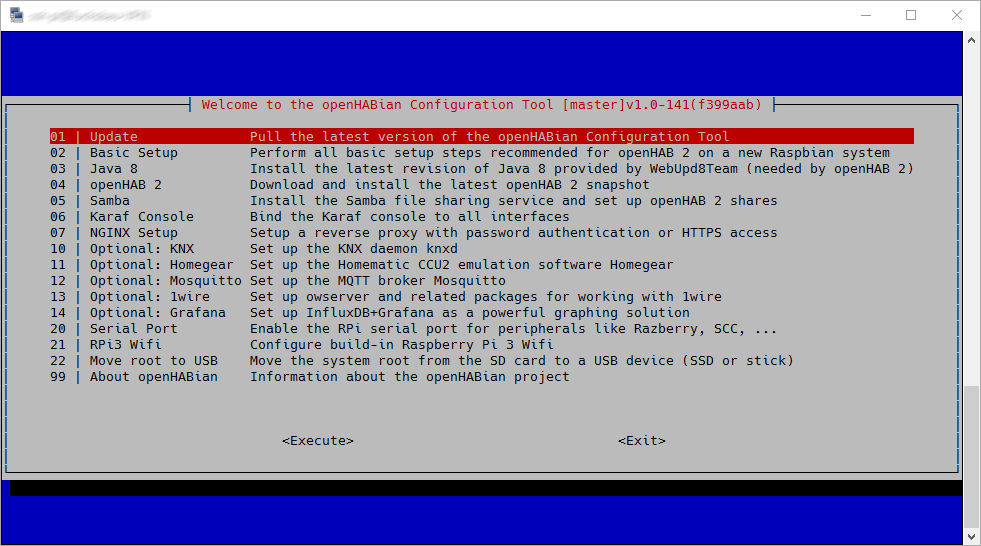
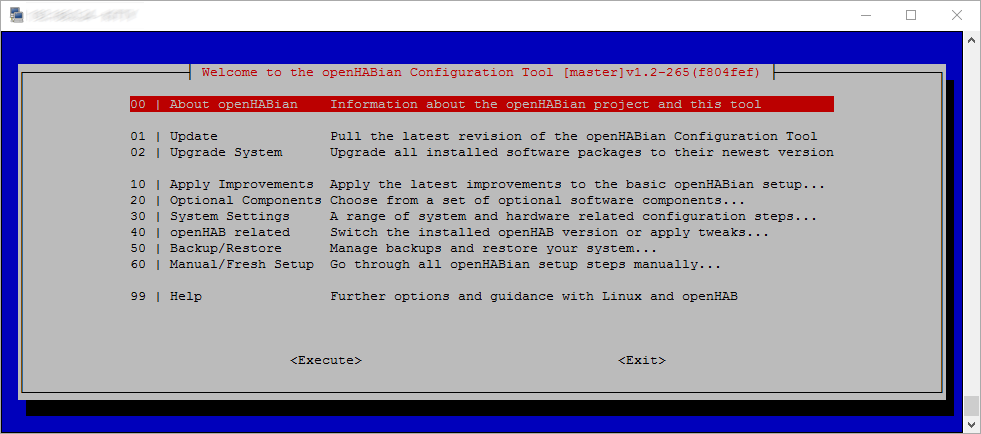
Update docs article and screenshots for next release

diff --git a/docs/openhabian.md b/docs/openhabian.md
@@ -5,6 +5,10 @@ title: openHABian
 
 {% include base.html %}
 
+<!-- Attention authors: If you want to improve or enhance this article, please go to: -->
+<!--   * https://github.com/openhab/openhabian/issues -->
+<!--   * https://github.com/openhab/openhabian/blob/master/docs/openhabian.md -->
+
 # openHABian - Hassle-free openHAB Setup
 
 The Raspberry Pi and other small single-board computers are quite famous platforms for openHAB.
@@ -13,10 +17,10 @@ However, setting up a fully working Linux system with all recommended packages a
 <p style="text-align: center; font-size: 1.2em; font-style: italic;"><q>A home automation enthusiast doesn't have to be a Linux enthusiast!</q></p>
 
 openHABian aims to provide a **self-configuring** Linux system setup specific to the needs of every openHAB user.
-The project provides two things:
+To that end, the project provides two things:
 
-* A set of scripts to set up openHAB on any Debian/Ubuntu based system
-* Complete **SD-card images pre-configured with openHAB** and many other openHAB- and Hardware-specific preparations, namely for the Raspberry Pi.
+* Complete **SD-card images pre-configured with openHAB** and many other openHAB- and Hardware-specific preparations for the Raspberry Pi and the Pine A64
+* The openHABian Configuration Tool to set up and configure openHAB and many related things on any Debian/Ubuntu based system
 
 #### Table of Content
 
@@ -27,36 +31,38 @@ The project provides two things:
 
 ## Features
 
-The following features are provided by openHABian:
+The following features are provided by the openHABian images out of the box:
 
+* Hassle-free setup without the need for a display or an [ethernet connection]()
 * openHAB 2 in the latest recommended version (2.0.0 stable)
-* Oracle Java 8 ([*build 1.8.0_101* or newer](https://launchpad.net/~webupd8team/+archive/ubuntu/java?field.series_filter=xenial))
+* Zulu Embedded OpenJDK Java 8 ([*version 8.20.0.42* or newer](http://zulu.org/zulu-community/zulurelnotes))
 * Useful Linux packages pre-installed, including `vim, mc, screen, htop, ...`
-* Samba file sharing with [ready to use shares](http://docs.openhab.org/installation/linux.html#mounting-locally)
+* Samba file sharing with [pre-configured to use shares](http://docs.openhab.org/installation/linux.html#mounting-locally)
 * Customized Bash shell experience
 * Customized vim settings, including [openHAB syntax highlighting](https://github.com/cyberkov/openhab-vim)
 * Customized nano settings, including [openHAB syntax highlighting](https://github.com/airix1/openhabnano)
 * Version control for `/etc` by the help of [etckeeper](http://etckeeper.branchable.com) (git)
 * Login information screen, powered by [FireMotD](https://github.com/willemdh/FireMotD)
-* openHABian configuration tool including an updater
+* openHABian Configuration Tool including updater functionality
 * [Raspberry Pi specific](rasppi.html): Extend to the whole SD card, 16MB GPU memory split
 
-openHABian provides the configuration tool [`openhabian-config`](#first-steps) with the following optional settings and components:
+openHABian provides the Configuration Tool [`openhabian-config`](#first-steps) with the following optional settings and components:
 
 ![openHABian-config menu](images/openHABian-config.png)
 
-<!-- * Switch over openHAB to the *testing* or *unstable* [build branches](https://bintray.com/openhab/apt-repo2/openhab2) -->
-
-* Install and Setup an [Nginx reverse proxy](security.html#nginx-reverse-proxy) with password authentication and/or HTTPS access (incl. [Let's Encrypt](https://letsencrypt.org) certificate)
-* Open the [Karaf remote console]({{base}}/administration/console.html) to all interfaces
+* Switch over to the *unstable* openHAB 2.1 [build branch](http://docs.openhab.org/installation/linux.html#changing-versions)
+* Switch to Oracle Java 8 ([*build 1.8.0_101* or newer](https://launchpad.net/~webupd8team/+archive/ubuntu/java?field.series_filter=xenial))
+* Install and Setup a [reverse proxy](security.html#nginx-reverse-proxy) with password authentication and/or HTTPS access (incl. [Let's Encrypt](https://letsencrypt.org) certificate) for self-controlled remote access
+* Set up a Wi-Fi connection
+* Bind the [Karaf remote console]({{base}}/administration/console.html) to all interfaces
 * [KNXd](http://michlstechblog.info/blog/raspberry-pi-eibknx-ip-gateway-and-router-with-knxd) - KNX daemon
-* [Homegear](https://www.homegear.eu/index.php/Main_Page) - Homemeatic control unit emulation
-* [Mosquitto](http://mosquitto.org) - Open Source MQTT v3.1/v3.1.1 Broker
+* [Homegear](https://www.homegear.eu/index.php/Main_Page) - Homematic control unit emulation
+* [Eclipse Mosquitto](http://mosquitto.org) - Open Source MQTT v3.1/v3.1.1 Broker
 * [OWServer](http://owfs.org/index.php?page=owserver_protocol) - 1wire control system
 * [InfluxDB+Grafana](https://community.openhab.org/t/influxdb-grafana-persistence-and-graphing/13761/1) - persistence and graphing
+* ... and many more
 * Raspberry Pi specific:
-  * Prepare the serial port for the use with Razberry, SCC, Enocean, ...
-  * Set up Wifi connection (RPi3 only)
+  * Prepare the serial port for the use with extension boards like Razberry, SCC, Enocean Pi, ...
   * Move the system partition to an external USB stick or drive
 
 ## Quick Start
@@ -65,23 +71,26 @@ Here you'll find supported and tested installation platforms and instructions.
 
 ### Raspberry Pi
 
-**Flash, plug, wait, enjoy:** The provided *image* of only 64MB contains a minimal boot system.
-This system will install *Raspbian* followed by openHAB and the mentioned settings and tools.
+**Flash, plug, wait, enjoy:**
+The provided *image* is based on the [Raspbian Lite](https://www.raspberrypi.org/downloads/raspbian) system.
+On first boot the system will set up openHAB and the mentioned settings and tools.
 All packages will be downloaded in their newest version and configured to work without further modifications.
+The whole process will take a few minutes, then openHAB and all other needed tools to get started will be ready to use without further configuration steps.
+openHABian is designed as a headless system, you will not need a display or a keyboard.
 
 Learn more about the Raspberry Pi as your platform for openHAB and about the requirements over in our [Raspberry Pi article](rasppi.html).
 
 **Setup:**
 
-* [Download the latest "openHABianPi" SD card image file](https://github.com/openhab/openhabian/releases)
-* Write the image to your SD card (e.g. with [Etcher](https://etcher.io))
-* Insert the SD card into the Raspberry Pi, connect Ethernet and power
-* Wait approximately **45 minutes** for openHABian to do its magic
+* [Download the latest "openHABianPi" SD card image file](https://github.com/openhab/openhabian/releases) (Note: the file is *xz* compressed)
+* Write the image to your SD card (e.g. with [Etcher](https://etcher.io), able to directly work with *xz* files)
+* Insert the SD card into the Raspberry Pi, connect Ethernet ([Wi-Fi supported](#wifi-setup)) and power
+* Wait approximately **15-30 minutes** for openHABian to do its magic
 * Enjoy! 🎉
 
 * The device will be available under its IP or via the local DNS name `openhabianpi`
 * [Connect to the openHAB 2 dashboard](http://docs.openhab.org/configuration/packages.html) (available after a few more minutes): [http://openhabianpi:8080](http://openhabianpi:8080)
-* [Connect to the Samba network shares](http://docs.openhab.org/installation/linux.html#mounting-locally) with `openhabian:openhabian`
+* [Connect to the Samba network shares](http://docs.openhab.org/installation/linux.html#mounting-locally) with username and password `openhabian`
 * If you encounter any setup problem, [please continue here](#faq-successful)
 
 You can stop reading now.
@@ -89,7 +98,7 @@ openHABian has installed and configured your openHAB system and you can start to
 If you want to get in touch with the system or want to install one of the previously mentioned optional features, you can come back here later.
 
 Ready for more?
-[Connect to your Raspberry Pi SSH console](https://www.raspberrypi.org/documentation/remote-access/ssh/windows.md) using the username and password `openhabian:openhabian`.
+[Connect to your Raspberry Pi SSH console](https://www.raspberrypi.org/documentation/remote-access/ssh/windows.md) using the username and password `openhabian`.
 You will see the following welcome screen:
 
 ![openHABian login screen](images/openHABian-SSH-MotD.png)
@@ -108,14 +117,14 @@ Learn more about the Pine A64 as your platform for openHAB and about the require
 **Setup:**
 
 * [Download the latest "openHABianPine64" SD card image file](https://github.com/openhab/openhabian/releases) (Note: the file is *xz* compressed)
-* Write the image file to your SD card (e.g. with [Etcher](https://etcher.io))
-* Insert the SD card into the Pine A64, connect Ethernet and power ([See here for more details](http://wiki.pine64.org/index.php/Main_Page#Step_by_Step_Instructions))
-* Wait approximately **15 minutes** for openHABian to do its magic
+* Write the image file to your SD card (e.g. with [Etcher](https://etcher.io), able to directly work with *xz* files)
+* Insert the SD card into the Pine A64, connect Ethernet ([Wi-Fi supported](#wifi-setup)) and power ([See here for more details](http://wiki.pine64.org/index.php/Main_Page#Step_by_Step_Instructions))
+* Wait approximately **15-30 minutes** for openHABian to do its magic
 * Enjoy! 🎉
 
 * The device will be available under its IP or via the local DNS name `openhabianpine64`
 * [Connect to the openHAB 2 dashboard](http://docs.openhab.org/configuration/packages.html) (available after a few more minutes): [http://openhabianpine64:8080](http://openhabianpine64:8080)
-* [Connect to the Samba network shares](http://docs.openhab.org/installation/linux.html#mounting-locally) with `openhabian:openhabian`
+* [Connect to the Samba network shares](http://docs.openhab.org/installation/linux.html#mounting-locally) with username and password `openhabian`
 * If you encounter any setup problem, [please continue here](#faq-successful)
 
 You can stop reading now.
@@ -123,7 +132,7 @@ openHABian has installed and configured your openHAB system and you can start to
 If you want to get in touch with the system or want to install one of the previously mentioned optional features, you can come back here later.
 
 Ready for more?
-Connect to your Pine A64 SSH console using the username and password `openhabian:openhabian`.
+Connect to your Pine A64 [SSH console](https://www.raspberrypi.org/documentation/remote-access/ssh/windows.md) using the username and password `openhabian`.
 You will see the following welcome screen:
 
 ![openHABian login screen](images/openHABian-SSH-MotD.png)
@@ -133,13 +142,7 @@ You will see the following welcome screen:
 ### Manual Setup
 
 openHABian also supports general Debian/Ubuntu based systems on different platforms.
-Successful installations have been reported for the following platforms and environments:
-
-* **Raspberry Pi Zero:** The RPi0 doesn't have an ethernet port thus is not compatible with the netinstaller method of the openHABianPi image.
-  Community member [*jtmoderate876* went the extra mile](https://community.openhab.org/t/oh-on-the-raspberry-pi-zero/10997/15).
-  After installing Raspbian, executing openHABian as described below was all that's needed. He's quite happy with the results. 
-
-Starting with a fresh installation of your operating system, install git, then clone the openHABian poject and finally execute the openHABian configuration tool.
+Starting with a fresh installation of your operating system, install git, then clone the openHABian poject and finally execute the openHABian configuration tool:
 
 ```shell
 # install git
@@ -154,13 +157,30 @@ ln -s /opt/openhabian/openhabian-setup.sh /usr/local/bin/openhabian-config
 sudo openhabian-config
 ```
 
-You'll see the openHABian configuration menu and can now run all desired actions, e.g. install the newest Oracle Java 8 revision or openHAB 2.
+You'll see the openHABian configuration menu and can now select all desired actions.
+The "Manual/Fresh Setup" submenu entry is the right place for you. Execute all entries one after the other to get the full openHABian experience:
+
+![openHABian-config menu fresh setup](images/openHABian-menu-freshsetup.png)
 
 > Attention:
-> openHABian usage on a custom system is supported but not yet widely tested.
+> openHABian usage on a custom system is supported and should be safe.
+> Still some routines might not work for you.
 > Please be cautious and have a close look at the console output for errors.
-> Report every error you see to the [openHABian Issue Tracker](https://github.com/openhab/openhabian/issues).
+> Report problems you encounter to the [openHABian Issue Tracker](https://github.com/openhab/openhabian/issues).
 
+{: #wifi-setup}
+### Wi-Fi based Setup Notes
+
+If you own a RPi3, RPi0W or a Pine A64, you can setup and use openHABian purely via Wi-Fi.
+For the setup on Wi-Fi, you'll need to make your SSID and password known to the system before the first boot.
+Additionally to the setup instructions given above, the following steps are needed:
+
+* Flash the system image to your micro SD card as described
+* Access the first SD card partition from your file explorer
+* Open the file `openhabian.conf` in a text editor
+* Uncomment and fill in `wifi_ssid=` and `wifi_psk=`
+* Save, Unmount, Insert, Boot
+* Continue with the instructions for the Raspberry Pi or Pine A64
 
 ## First Steps
 
@@ -191,7 +211,7 @@ A lot of helpful articles can be found on the internet, for example:
 * The official Raspberry Pi help articles over at [raspberrypi.org](https://www.raspberrypi.org/help)
 * "Now what?", Tutorial on the Command line console at [LinuxCommand.org](http://linuxcommand.org/index.php)
 
-*The good news:* openHABian helps you to stay away from Linux - *The bad news:* Not for long.
+*The good news:* openHABian helps you to stay away from Linux - *The bad news:* Not for long...
 
 Regardless of if you want to copy some files or are on the search for a solution to a problem, sooner or later you'll have to know some Linux.
 Take a few minutes to study the above Tutorials and get to know the most basic commands and tools to be able to navigate on your Linux system, edit configurations, check the system state or look at log files.
@@ -203,48 +223,17 @@ It's not complicated and something that doesn't hurt on ones résumé.
 openHABian is supposed to provide a ready-to-use openHAB base system. There are however a few things we can not decide for you.
 
 * **Timezone:** The default timezone openHABian is shipped with is "Europe/Berlin". You should change it to your location.
-* **Language:** The `locale` setting of the openHABian base system is set to "en_US.UTF-8". While this setting will not do any harm, you might prefer e.g. console errors in german or spanish. Change the locale settings acordingly. Be aware, that error solving might be easier when using the english error messages as search phrases.
+* **Language:** The `locale` setting of the openHABian base system is set to "en_US.UTF-8". While this setting will not do any harm, you might prefer e.g. console errors in German or Spanish. Change the locale settings accordingly. Be aware, that error solving might be easier when using the English error messages as search phrases.
 * **Passwords:** Relying on default passwords is a security concern you should care about!
 
-{: #timezone-locale}
-### Timezone and Locale
-
-To change the timezone for your openHABian system execute the follwing commands:
-
-```shell
-# List available timezones
-timedatectl list-timezones
-
-# Set system timezone
-sudo timedatectl set-timezone Europe/Berlin
-
-# Check the result
-timedatectl
-```
-
-Changing the locale of your system is done by the below commands.
-The first command configures the available languges, the second will define the default.
-You should leave Englisch as an available language, as not all packages provide error messages in e.g. German.
-
-```shell
-# List available locales
-cat /usr/share/i18n/SUPPORTED
-
-# Generate locales, set default
-/usr/sbin/locale-gen en_US.UTF-8 de_DE.UTF-8
-/usr/sbin/update-locale LANG=en_US.UTF-8
-```
-
-You will need to restart your system for the locale setting to take effect.
-
-{: #passwords}
-### Changing your Passwords
+All of these settings can be changed via the openHABian Configuration Tool.
 
 The openHABian system is preconfigured with a few passwords you should change to ensure the security of your system.
 This is especially important of your system is accessible from outside your private subnet.
 
 Here are the passwords in question, their default value and the way to change them:
 
+{: #passwords}
 * User password needed for SSH or sudo (e.g. "openhabian:openhabian") : `passwd`
 * Samba share password (e.g. "openhabian:openhabian"): `sudo smbpasswd openhabian`
 * Karaf remote console (e.g. "openhab:habopen"): Change via the openHABian menu
@@ -260,28 +249,41 @@ If you want to get involved, you found a bug, or just want to see what's planned
 
 * [https://github.com/openhab/openhabian/issues](https://github.com/openhab/openhabian/issues)
 
-{: #faq-image-size}
-#### The RPi image is only "64 MB small", is that a typing error?
+{: #changelog}
+#### Where can I find a changelog for openHABian?
 
-No. The Raspberry Pi image is based on [raspbian-ua-netinst](https://github.com/debian-pi/raspbian-ua-netinst), which produces a minimal boot system image of that size.
+The official changelog announcements are posted [here](https://community.openhab.org/t/13379/1) and [here](https://github.com/openhab/openhabian/releases), be sure to check these out regularly.
+If you want to stay in touch with all the latest code changes under the hood, see the [commit history](https://github.com/openhab/openhabian/commits/master) for openHABian.
+You'll also see added commits when executing the "Update" function within the openHABian Configuration Tool.
 
 {: #faq-successful}
-#### Did my Installation succeed?
+#### Did my Installation succeed? What to do in case of a problem?
 
 During and after the first boot of your Raspberry Pi, the green on-board LED will indicate the setup progress (no display needed):
 
 * `❇ ❇    ❇ ❇     ` - Steady "heartbeat": setup **successful**
 * ` ❇         ❇❇❇ ` - Irregular blinking: setup in progress...
-* `❇ ❇ ❇ ❇ ❇ ❇ ❇` - Fast blinking: error while setup, check `/var/log/raspbian-ua-netinst.log`
+* `❇ ❇ ❇ ❇ ❇ ❇ ❇` - Fast blinking: error while setup
 
-Besides that you should always be able to connect to the SSH console of your device.
-If the installation was successful, you will see the normal login screen.
+Besides, you should always be able to connect to the SSH console of your device.
+During the setup process you'll be redirected to the live progress report of the setup.
+The report can also be checked for errors after the installation, execute: `cat /boot/first-boot.log`
+
+The progress of a successful installation will look similar to the following:
+
+![openHABian installation log](images/openHABian-install-log.png)
+
+If the installation was successful, you will see the normal login screen afterwards.
 If the installation was *not* successful you will see a warning and further instructions:
 
-![openHABian installation failed warning and instructions](images/openHABian-install-failed.png)
+<div class="row">
+  <div class="col s12 m5"><img src="images/openHABian-SSH-MotD.png" alt="openHABian installation successful" title="openHABian installation successful"></div>
+  <div class="col s12 m5"><img src="images/openHABian-install-failed.png" alt="openHABian installation failed warning and instructions" title="openHABian installation failed warning and instructions"></div>
+</div>
 
-If you are not able to SSH access your system after more than one hours, chances are high, that your hardware setup is the problem.
+If you are not able to SSH access your system after more than one hours, chances are high that your hardware setup is the problem.
 Try using a steady power source and a reliable SD card.
+Check the network connection.
 Restart the Setup process to rule out most other possible causes.
 
 Contact the [Community Forum thread](https://community.openhab.org/t/13379) if the problem persists.
@@ -290,8 +292,8 @@ Contact the [Community Forum thread](https://community.openhab.org/t/13379) if t
 #### Can I switch from openHAB 2 stable to the testing or unstable branch?
 
 openHABian installs the latest stable build of openHAB 2.
-If you want to switch over to the testing/beta or the snapshot release branch, please do so manually on the SSH/Linux console.
-Switching from stable to newer development releases might introduce changes and incompatiblities, so please be sure to make a full openHAB backup first!
+If you want to switch over to the snapshot release branch, please do so via the openHABian Configuration Tool.
+Switching from stable to newer development releases might introduce changes and incompatibilities, so please be sure to make a full openHAB backup first!
 
 Check the Linux installation article for all needed details: [Linux: Changing Versions](http://docs.openhab.org/installation/linux.html#changing-versions)
 
@@ -299,6 +301,8 @@ Check the Linux installation article for all needed details: [Linux: Changing Ve
 #### Can I use openHABian on ...?
 
 openHABian is restricted to Debian/Ubuntu based systems.
-If your Operating System is one of these or if your Hardware supports one, your chances are high openHABian can be used.
+If your operating system is based on these or if your Hardware supports one, your chances are high openHABian can be used.
+Check out the [Manual Setup](#manual-setup) instructions for guidance.
+
 Differences between systems can still be a problem, so please check the [Community Forum thread](https://community.openhab.org/t/13379) or the [Issue Tracker](https://github.com/openhab/openhabian/issues) for more information.
 Do not hesitate to ask!
